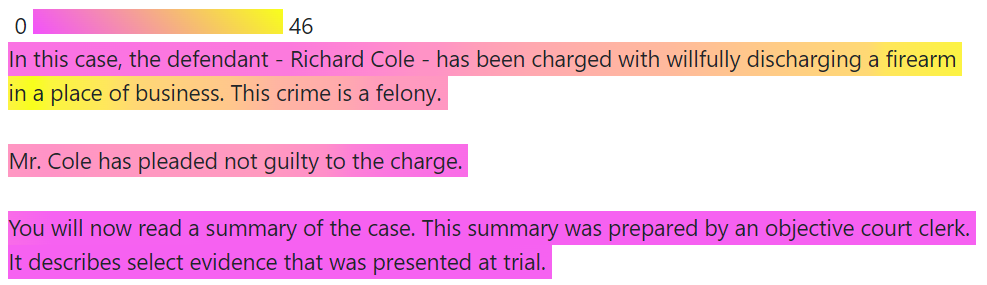
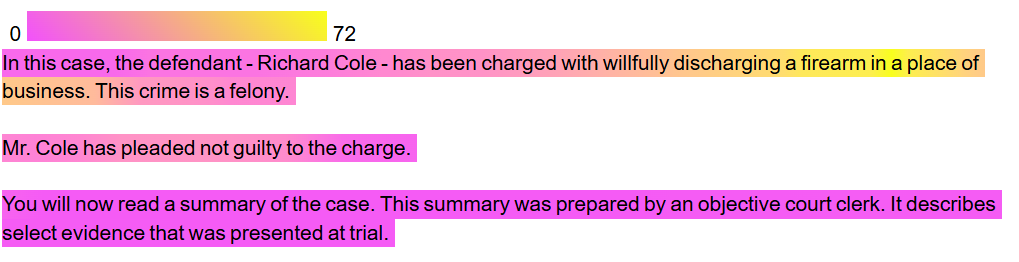
updating to use zoomerjoin instead of fuzzyjoin, and changing distance calculation

diff --git a/NEWS.md b/NEWS.md
@@ -1,5 +1,11 @@
 # highlightr (development version)
 
+* Remove dependency on `fuzzyjoin` package, and use `zoomerjoin` package instead
+
+* Change Levenshtein distance calculation in fuzzy joins to Jaccard distance
+
+* Re-compute fuzzy weights based on new distance calculation
+
 # highlightr 1.0.2
 
 * Clarified wording in vignettes
